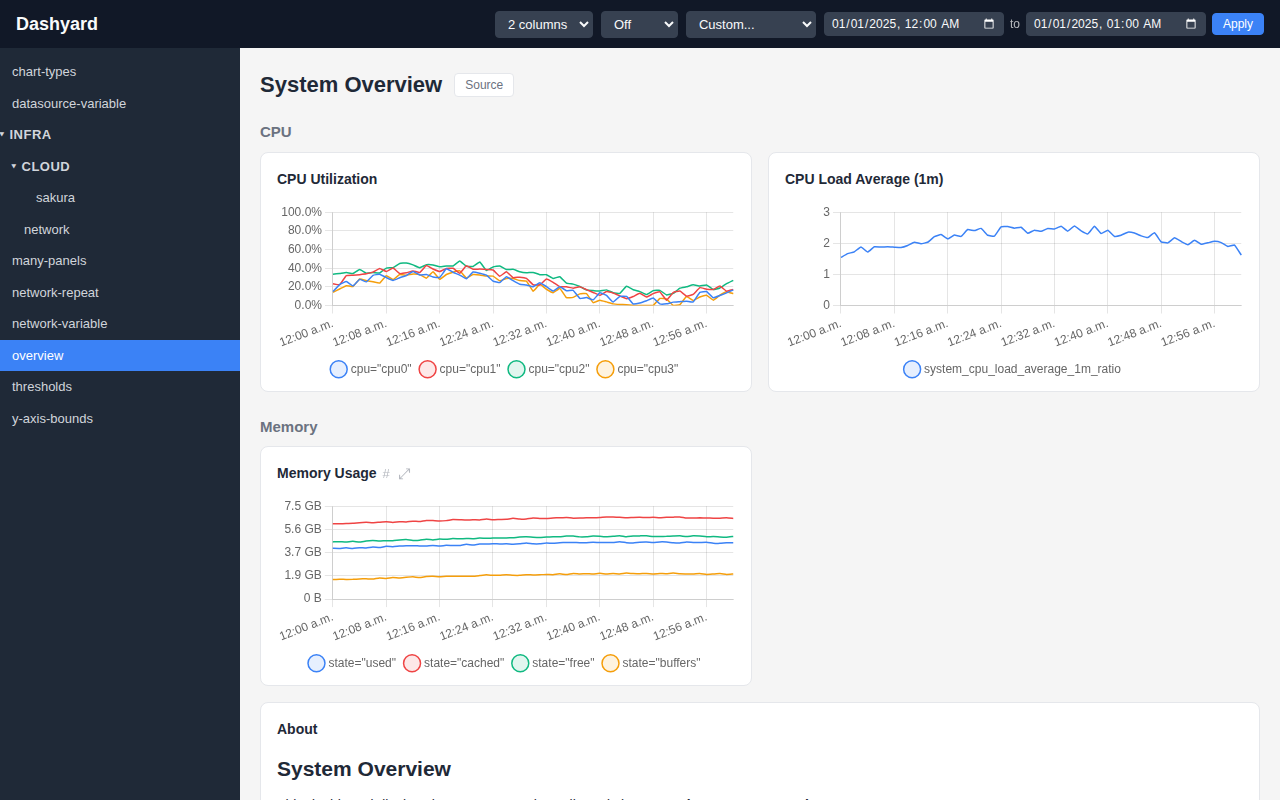
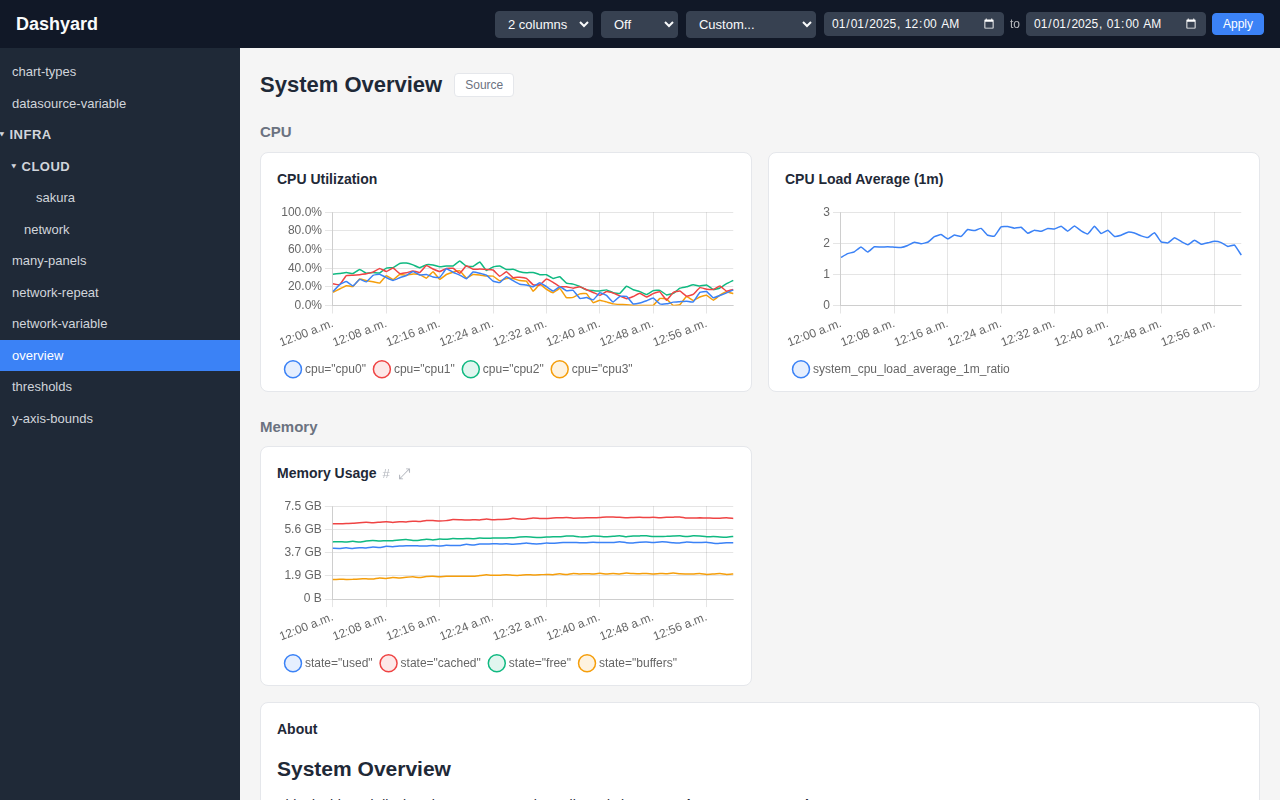
Add per-panel legend configuration options
Add legend_display, legend_position, legend_align, legend_max_height,
and legend_max_width options to graph panels for fine-grained control
over chart legend rendering.

Changed region(s): [[0.2188, 0.8125, 0.5312, 0.8438], [0.2188, 0.4375, 0.5312, 0.4688], [0.5938, 0.4375, 0.875, 0.4688]]

diff --git a/frontend/src/components/GraphPanel.tsx b/frontend/src/components/GraphPanel.tsx
@@ -43,6 +43,11 @@ interface GraphPanelProps {
   yMin?: number;
   yMax?: number;
   legend?: string;
+  legendDisplay?: boolean;
+  legendPosition?: 'top' | 'bottom' | 'left' | 'right';
+  legendAlign?: 'start' | 'center' | 'end';
+  legendMaxHeight?: number;
+  legendMaxWidth?: number;
   thresholds?: Threshold[];
   chartType?: 'line' | 'bar' | 'area' | 'scatter';
   stacked?: boolean;
@@ -88,7 +93,7 @@ const COLORS = [
 ];
 
 
-export function GraphPanel({ title, data, unit, yMin, yMax, legend, thresholds, chartType, stacked, yScale, loading, error, id }: GraphPanelProps) {
+export function GraphPanel({ title, data, unit, yMin, yMax, legend, legendDisplay, legendPosition, legendAlign, legendMaxHeight, legendMaxWidth, thresholds, chartType, stacked, yScale, loading, error, id }: GraphPanelProps) {
   const [expanded, setExpanded] = useState(false);
   const [chartHeight, setChartHeight] = useState<number | null>(null);
   const panelChartRef = useRef<HTMLDivElement>(null);
@@ -204,8 +209,13 @@ export function GraphPanel({ title, data, unit, yMin, yMax, legend, thresholds, 
     },
     plugins: {
       legend: {
-        position: 'bottom' as const,
-        ...(isExpanded ? {} : { maxHeight: dynamicLegendMaxHeight }),
+        display: legendDisplay !== false,
+        position: (legendPosition || 'bottom') as 'top' | 'bottom' | 'left' | 'right',
+        align: (legendAlign || 'start') as 'start' | 'center' | 'end',
+        ...(legendMaxHeight !== undefined
+          ? { maxHeight: legendMaxHeight }
+          : isExpanded ? {} : { maxHeight: dynamicLegendMaxHeight }),
+        ...(legendMaxWidth !== undefined ? { maxWidth: legendMaxWidth } : {}),
         labels: {
           boxWidth: 12,
           usePointStyle: true,

diff --git a/frontend/src/components/RowView.tsx b/frontend/src/components/RowView.tsx
@@ -75,6 +75,11 @@ function PanelRenderer({ panel, panelId, timeRange, variableValues }: PanelRende
       yMin={panel.y_min}
       yMax={panel.y_max}
       legend={panel.legend}
+      legendDisplay={panel.legend_display}
+      legendPosition={panel.legend_position}
+      legendAlign={panel.legend_align}
+      legendMaxHeight={panel.legend_max_height}
+      legendMaxWidth={panel.legend_max_width}
       thresholds={panel.thresholds}
       chartType={panel.chart_type}
       stacked={panel.stacked}

diff --git a/frontend/src/types/index.ts b/frontend/src/types/index.ts
@@ -14,6 +14,11 @@ export interface Panel {
   y_min?: number;
   y_max?: number;
   legend?: string;
+  legend_display?: boolean;
+  legend_position?: 'top' | 'bottom' | 'left' | 'right';
+  legend_align?: 'start' | 'center' | 'end';
+  legend_max_height?: number;
+  legend_max_width?: number;
   thresholds?: Threshold[];
   stacked?: boolean;
   y_scale?: 'linear' | 'log';

diff --git a/internal/model/dashboard_test.go b/internal/model/dashboard_test.go
@@ -770,6 +770,137 @@ func TestValidateRepeatDefinedVariable(t *testing.T) {
 	}
 }
 
+func TestValidateGraphPanelInvalidLegendAlign(t *testing.T) {
+	d := Dashboard{
+		Title: "Test",
+		Rows:  []Row{{Title: "Row1", Panels: []Panel{{Title: "P1", Type: "graph", Query: "up", LegendAlign: "invalid"}}}},
+	}
+	if err := d.Validate(); err == nil {
+		t.Error("expected error for invalid legend_align")
+	}
+}
+
+func TestValidateGraphPanelValidLegendAligns(t *testing.T) {
+	for _, a := range []string{"start", "center", "end"} {
+		d := Dashboard{
+			Title: "Test",
+			Rows:  []Row{{Title: "Row1", Panels: []Panel{{Title: "P1", Type: "graph", Query: "up", LegendAlign: a}}}},
+		}
+		if err := d.Validate(); err != nil {
+			t.Errorf("expected no error for legend_align %q, got %v", a, err)
+		}
+	}
+}
+
+func TestValidateGraphPanelInvalidLegendPosition(t *testing.T) {
+	d := Dashboard{
+		Title: "Test",
+		Rows:  []Row{{Title: "Row1", Panels: []Panel{{Title: "P1", Type: "graph", Query: "up", LegendPosition: "invalid"}}}},
+	}
+	if err := d.Validate(); err == nil {
+		t.Error("expected error for invalid legend_position")
+	}
+}
+
+func TestValidateGraphPanelValidLegendPositions(t *testing.T) {
+	for _, p := range []string{"top", "bottom", "left", "right"} {
+		d := Dashboard{
+			Title: "Test",
+			Rows:  []Row{{Title: "Row1", Panels: []Panel{{Title: "P1", Type: "graph", Query: "up", LegendPosition: p}}}},
+		}
+		if err := d.Validate(); err != nil {
+			t.Errorf("expected no error for legend_position %q, got %v", p, err)
+		}
+	}
+}
+
+func TestPanelLegendOptionsYAMLUnmarshal(t *testing.T) {
+	input := `
+title: "Test"
+type: "graph"
+query: "up"
+legend_display: false
+legend_position: "right"
+legend_align: "center"
+legend_max_height: 100
+legend_max_width: 150
+`
+	var p Panel
+	if err := yaml.Unmarshal([]byte(input), &p); err != nil {
+		t.Fatalf("unexpected error: %v", err)
+	}
+	if p.LegendDisplay == nil || *p.LegendDisplay != false {
+		t.Errorf("expected legend_display false")
+	}
+	if p.LegendPosition != "right" {
+		t.Errorf("expected legend_position 'right', got %q", p.LegendPosition)
+	}
+	if p.LegendAlign != "center" {
+		t.Errorf("expected legend_align 'center', got %q", p.LegendAlign)
+	}
+	if p.LegendMaxHeight == nil || *p.LegendMaxHeight != 100 {
+		t.Errorf("expected legend_max_height 100")
+	}
+	if p.LegendMaxWidth == nil || *p.LegendMaxWidth != 150 {
+		t.Errorf("expected legend_max_width 150")
+	}
+}
+
+func TestPanelLegendOptionsJSON(t *testing.T) {
+	display := false
+	maxH := 100
+	maxW := 150
+	p := Panel{
+		Title:           "Test",
+		Type:            "graph",
+		Query:           "up",
+		LegendDisplay:   &display,
+		LegendPosition:  "right",
+		LegendAlign:     "center",
+		LegendMaxHeight: &maxH,
+		LegendMaxWidth:  &maxW,
+	}
+	data, err := json.Marshal(p)
+	if err != nil {
+		t.Fatalf("unexpected error: %v", err)
+	}
+	var decoded map[string]interface{}
+	if err := json.Unmarshal(data, &decoded); err != nil {
+		t.Fatalf("unexpected error: %v", err)
+	}
+	if decoded["legend_display"] != false {
+		t.Errorf("expected legend_display false, got %v", decoded["legend_display"])
+	}
+	if decoded["legend_position"] != "right" {
+		t.Errorf("expected legend_position 'right', got %v", decoded["legend_position"])
+	}
+	if decoded["legend_align"] != "center" {
+		t.Errorf("expected legend_align 'center', got %v", decoded["legend_align"])
+	}
+	if decoded["legend_max_height"] != float64(100) {
+		t.Errorf("expected legend_max_height 100, got %v", decoded["legend_max_height"])
+	}
+	if decoded["legend_max_width"] != float64(150) {
+		t.Errorf("expected legend_max_width 150, got %v", decoded["legend_max_width"])
+	}
+
+	// Verify legend options are omitted from JSON when nil/empty
+	p2 := Panel{Title: "Test", Type: "graph", Query: "up"}
+	data2, err := json.Marshal(p2)
+	if err != nil {
+		t.Fatalf("unexpected error: %v", err)
+	}
+	var decoded2 map[string]interface{}
+	if err := json.Unmarshal(data2, &decoded2); err != nil {
+		t.Fatalf("unexpected error: %v", err)
+	}
+	for _, key := range []string{"legend_display", "legend_position", "legend_align", "legend_max_height", "legend_max_width"} {
+		if _, ok := decoded2[key]; ok {
+			t.Errorf("expected %s to be omitted from JSON when not set", key)
+		}
+	}
+}
+
 func TestDashboardTreeNodeJSON(t *testing.T) {
 	node := DashboardTreeNode{
 		Name: "infra",

diff --git a/internal/model/dashboard.go b/internal/model/dashboard.go
@@ -19,8 +19,13 @@ type Panel struct {
 	Unit       string      `yaml:"unit,omitempty" json:"unit,omitempty"` // "bytes", "percent", "count", "seconds"
 	YMin       *float64    `yaml:"y_min,omitempty" json:"y_min,omitempty"`
 	YMax       *float64    `yaml:"y_max,omitempty" json:"y_max,omitempty"`
-	Legend     string      `yaml:"legend,omitempty" json:"legend,omitempty"`
-	Thresholds []Threshold `yaml:"thresholds,omitempty" json:"thresholds,omitempty"`
+	Legend          string      `yaml:"legend,omitempty" json:"legend,omitempty"`
+	LegendDisplay  *bool       `yaml:"legend_display,omitempty" json:"legend_display,omitempty"`
+	LegendPosition string      `yaml:"legend_position,omitempty" json:"legend_position,omitempty"` // "top", "bottom", "left", "right"
+	LegendAlign    string      `yaml:"legend_align,omitempty" json:"legend_align,omitempty"`       // "start", "center", "end"
+	LegendMaxHeight *int       `yaml:"legend_max_height,omitempty" json:"legend_max_height,omitempty"`
+	LegendMaxWidth  *int       `yaml:"legend_max_width,omitempty" json:"legend_max_width,omitempty"`
+	Thresholds     []Threshold `yaml:"thresholds,omitempty" json:"thresholds,omitempty"`
 	Stacked    bool        `yaml:"stacked,omitempty" json:"stacked,omitempty"`
 	YScale     string      `yaml:"y_scale,omitempty" json:"y_scale,omitempty"` // "linear" or "log"
 	Content    string      `yaml:"content,omitempty" json:"content,omitempty"`
@@ -64,6 +69,14 @@ var validYScales = map[string]bool{
 
 var validUnits = map[string]bool{
 	"bytes": true, "percent": true, "count": true, "seconds": true,
+}
+
+var validLegendAligns = map[string]bool{
+	"start": true, "center": true, "end": true,
+}
+
+var validLegendPositions = map[string]bool{
+	"top": true, "bottom": true, "left": true, "right": true,
 }
 
 // Validate checks the dashboard for semantic correctness.
@@ -124,6 +137,12 @@ func (d *Dashboard) Validate() error {
 				}
 				if panel.Unit != "" && !validUnits[panel.Unit] {
 					return fmt.Errorf("graph panel[%d] %q in row %q has invalid unit %q in dashboard %q", j, panel.Title, row.Title, panel.Unit, d.Title)
+				}
+				if panel.LegendAlign != "" && !validLegendAligns[panel.LegendAlign] {
+					return fmt.Errorf("graph panel[%d] %q in row %q has invalid legend_align %q in dashboard %q (valid: start, center, end)", j, panel.Title, row.Title, panel.LegendAlign, d.Title)
+				}
+				if panel.LegendPosition != "" && !validLegendPositions[panel.LegendPosition] {
+					return fmt.Errorf("graph panel[%d] %q in row %q has invalid legend_position %q in dashboard %q (valid: top, bottom, left, right)", j, panel.Title, row.Title, panel.LegendPosition, d.Title)
 				}
 			case "markdown":
 				if panel.Content == "" {

diff --git a/internal/prompt/format_reference.md b/internal/prompt/format_reference.md
@@ -17,6 +17,11 @@ rows:
         unit: bytes                 # bytes, percent, count, seconds
         chart_type: line            # line, bar, area, scatter
         legend: "{label_name}"      # legend template
+        legend_display: true        # show/hide legend (default: true)
+        legend_position: bottom     # top, bottom, left, right (default: bottom)
+        legend_align: start         # start, center, end (default: start)
+        legend_max_height: 100      # max legend height in pixels
+        legend_max_width: 150       # max legend width in pixels
         y_min: 0                    # optional y-axis bounds
         y_max: 100
         stacked: false              # stack series
@@ -144,3 +149,19 @@ Use `trunc` for UUIDv4 labels (prefix is distinctive) and `suffix` for UUIDv7 la
 ## Stacked Charts
 
 Use `stacked: true` when series represent parts of a whole that sum to a meaningful total (e.g. memory by state: used + cached + free + buffers = total). Do not stack independent series that overlap (e.g. CPU utilization per core).
+
+## Legend Options
+
+Control how the chart legend is displayed:
+
+| Option | Values | Default | Description |
+|--------|--------|---------|-------------|
+| `legend_display` | `true`, `false` | `true` | Show or hide the legend entirely |
+| `legend_position` | `top`, `bottom`, `left`, `right` | `bottom` | Position of the legend relative to the chart |
+| `legend_align` | `start`, `center`, `end` | `start` | Alignment of legend items within the legend box |
+| `legend_max_height` | integer (pixels) | auto | Maximum height of the legend area |
+| `legend_max_width` | integer (pixels) | auto | Maximum width of the legend area |
+
+- Use `legend_display: false` to hide the legend when series labels are not meaningful or when maximizing chart area.
+- Use `legend_position: right` with `legend_max_width` for panels with many series to avoid vertical compression.
+- The default `legend_align: start` (left-aligned) is recommended for most cases. Use `center` or `end` sparingly.
